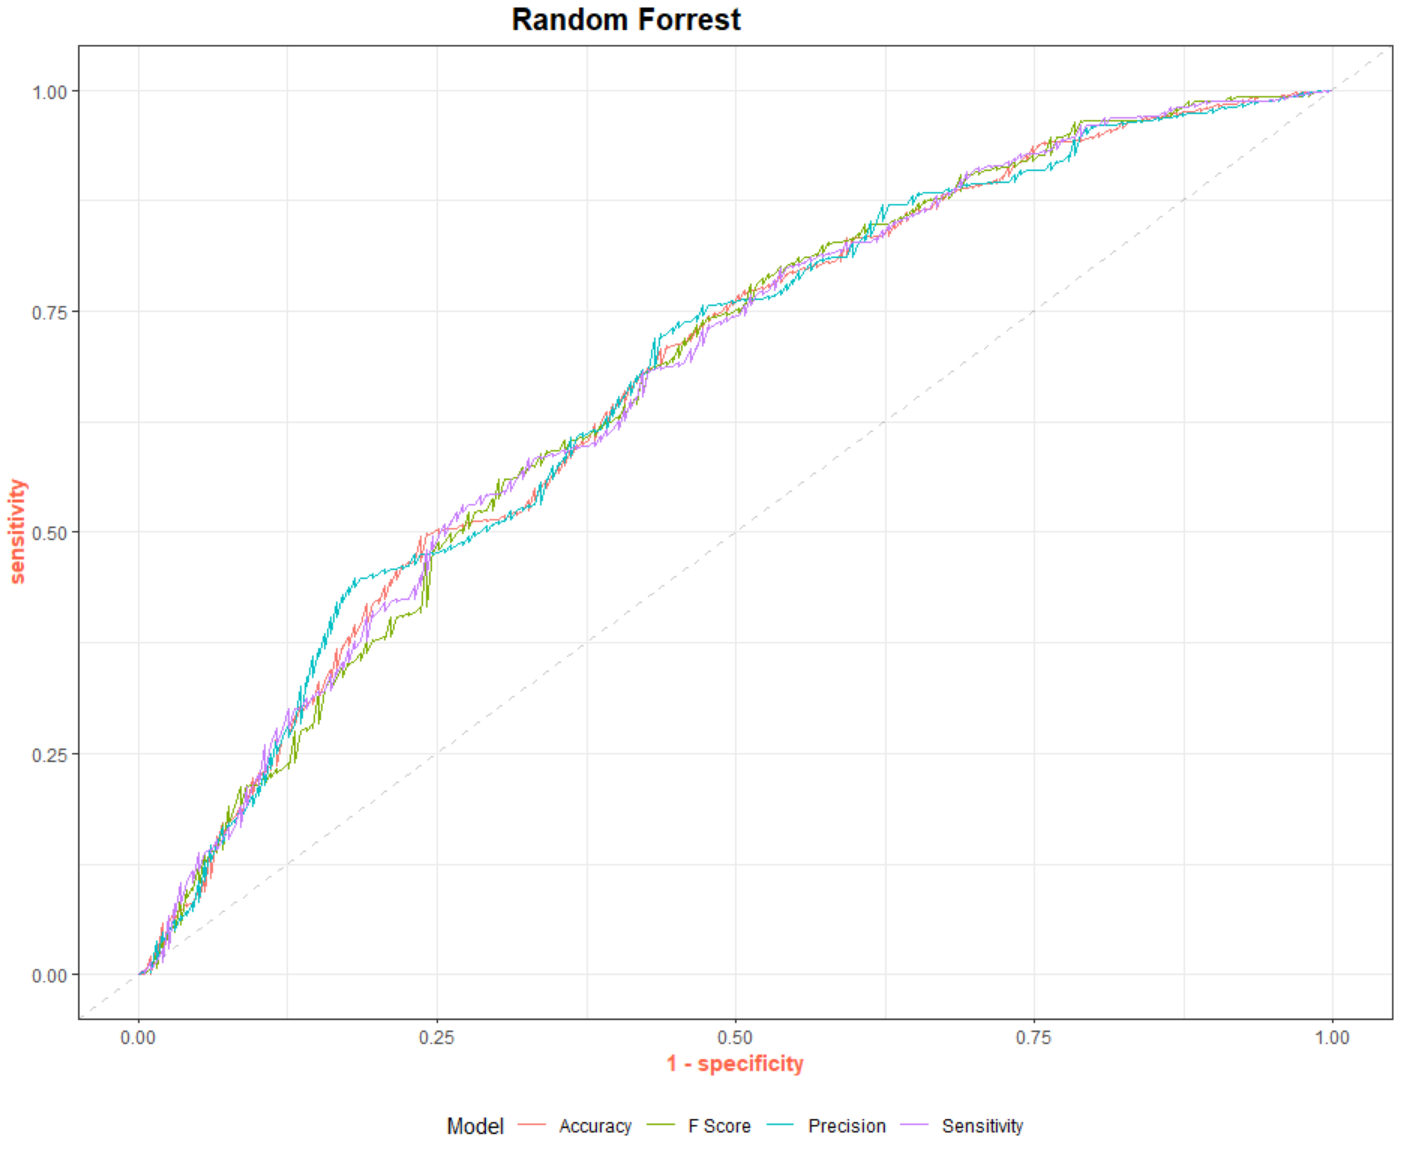
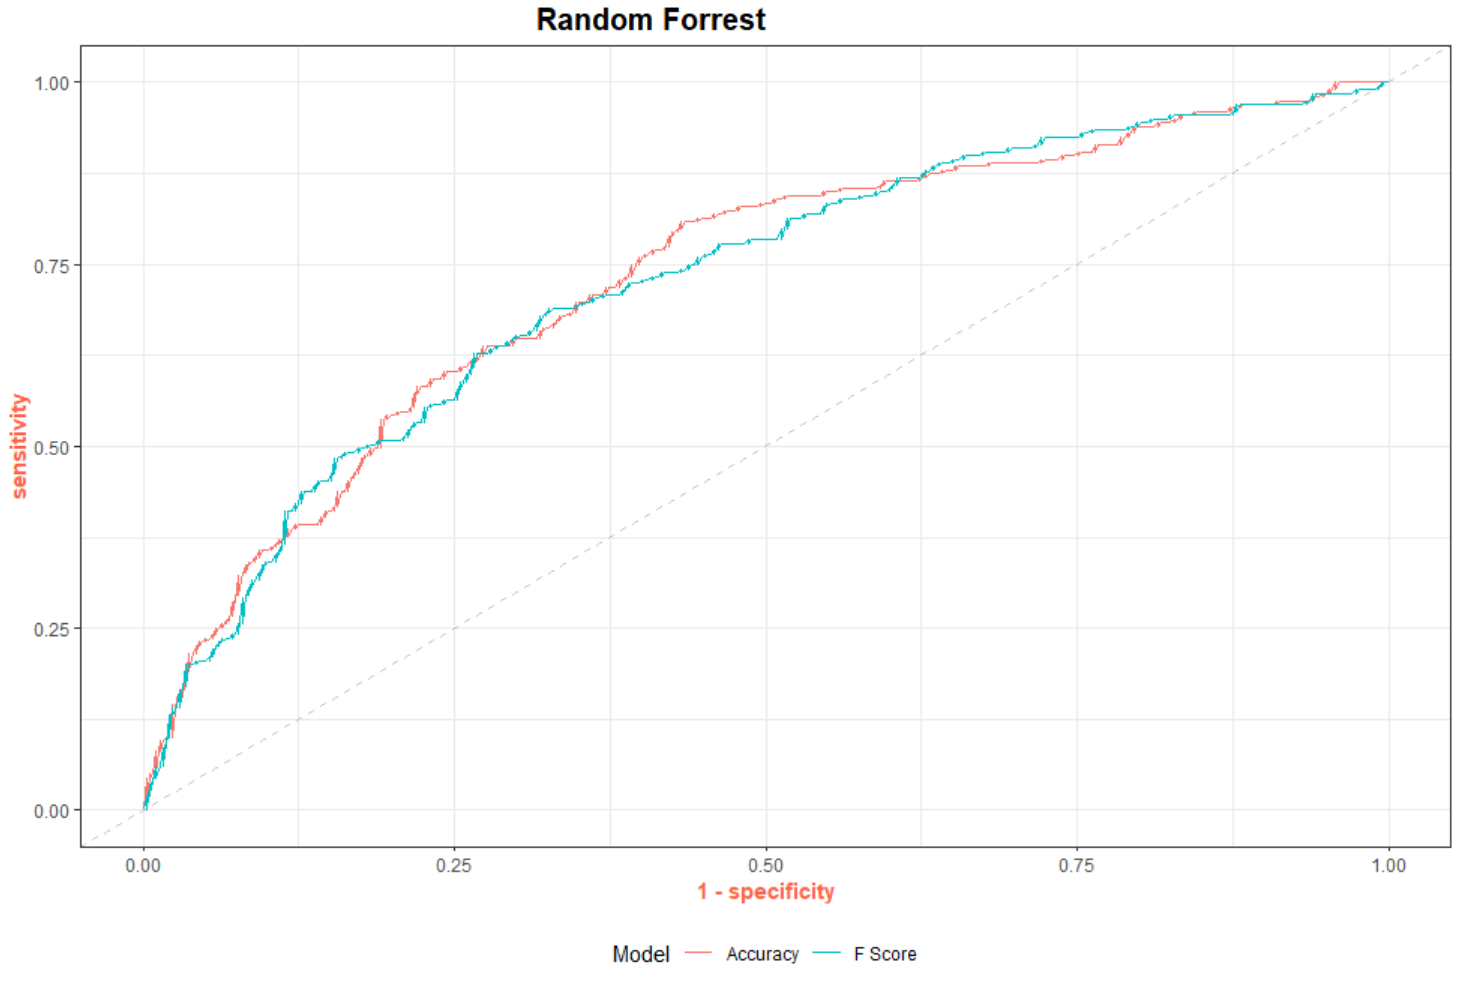
README

diff --git a/README.md b/README.md
@@ -321,7 +321,17 @@ F Score | 0.698 | 0.696 | 0.912 | 0.288 | 0.708 | 0.797 | 0.708 | 0.633
 ### Metrics
 Optimization | AUC | Accuracy | Sensitivity | Specificity | Precision | F1 | PPV | NPV
 --- | --- | --- | --- | --- | --- | --- | --- | ---
-Accuracy | 0.673 | 0.681 | 0.836 | 0.387 | 0.721 | 0.774 | 0.721 | 0.554
-Sensitivity | 0.674 | 0.684 | 0.857 | 0.357 | 0.716 | 0.78 | 0.716 | 0.568
-Precision | 0.675 | 0.672 | 0.814 | 0.402 | 0.721 | 0.765 | 0.721 | 0.533
-F Score | 0.672 | 0.686 | 0.859 | 0.357 | 0.717 | 0.782 | 0.717 | 0.573
+Accuracy | 73.2% | 70.8% | 88.3% | 37.7% | 72.9% | 79.9% | 72.9% | 63%
+F Score | 72.6% | 69.1% | 94.4% | 21.1% | 69.4% | 80% | 69.4% | 72.6%
+
+---
+
+# Refit: Probability Threshold
+<img src="Images/Thres_RF.PNG" width="  700">
+<img src="Images/CM_RF_Thres.PNG" width="  700">
+
+## Metrics
+Optimization | AUC | Accuracy | Sensitivity | Specificity | Precision | F1 | PPV | NPV
+--- | --- | --- | --- | --- | --- | --- | --- | ---
+Accuracy | 73.2% | 70.3% | 75.6% | 60.3% | 78.3% | 76.9% | 78.3% | 56.6%
+F Score | 72.6% | 69.6% | 78.5% | 52.8% | 75.9% | 77.2% | 75.9% | 56.5%
